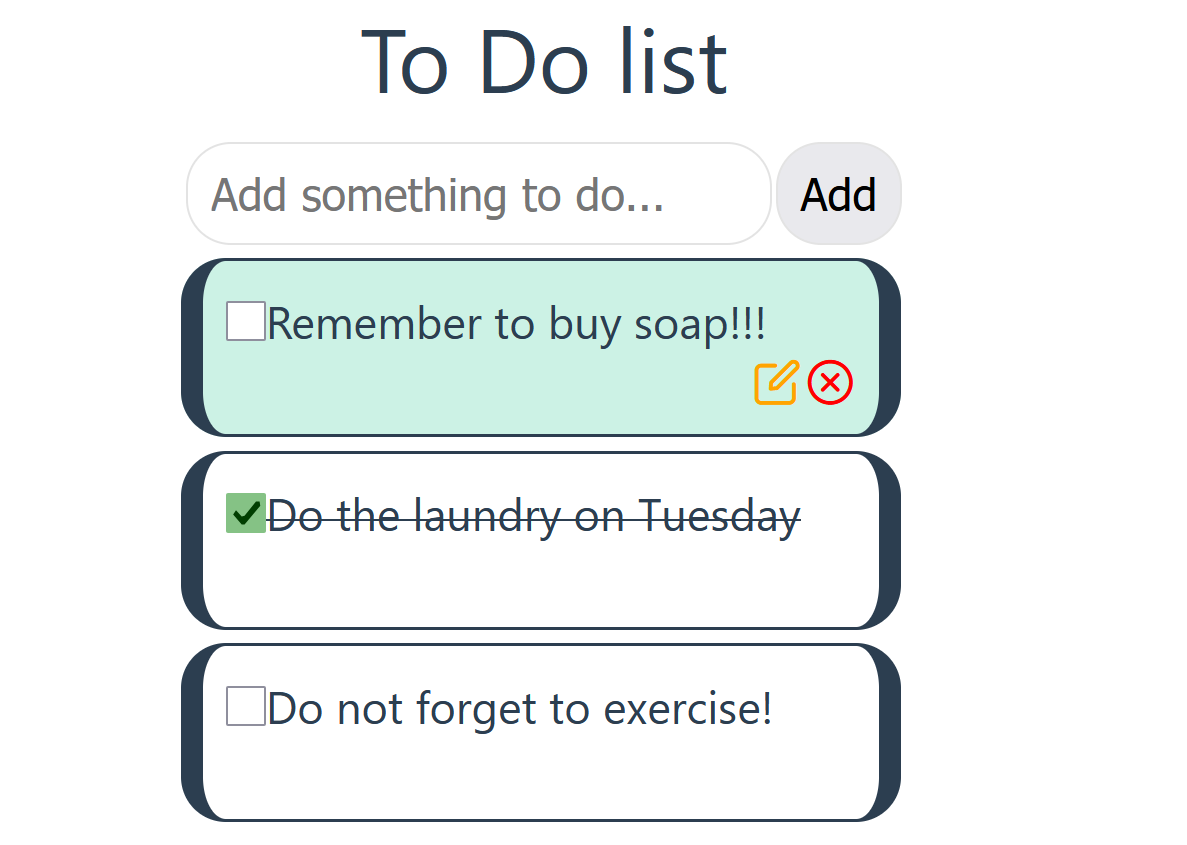
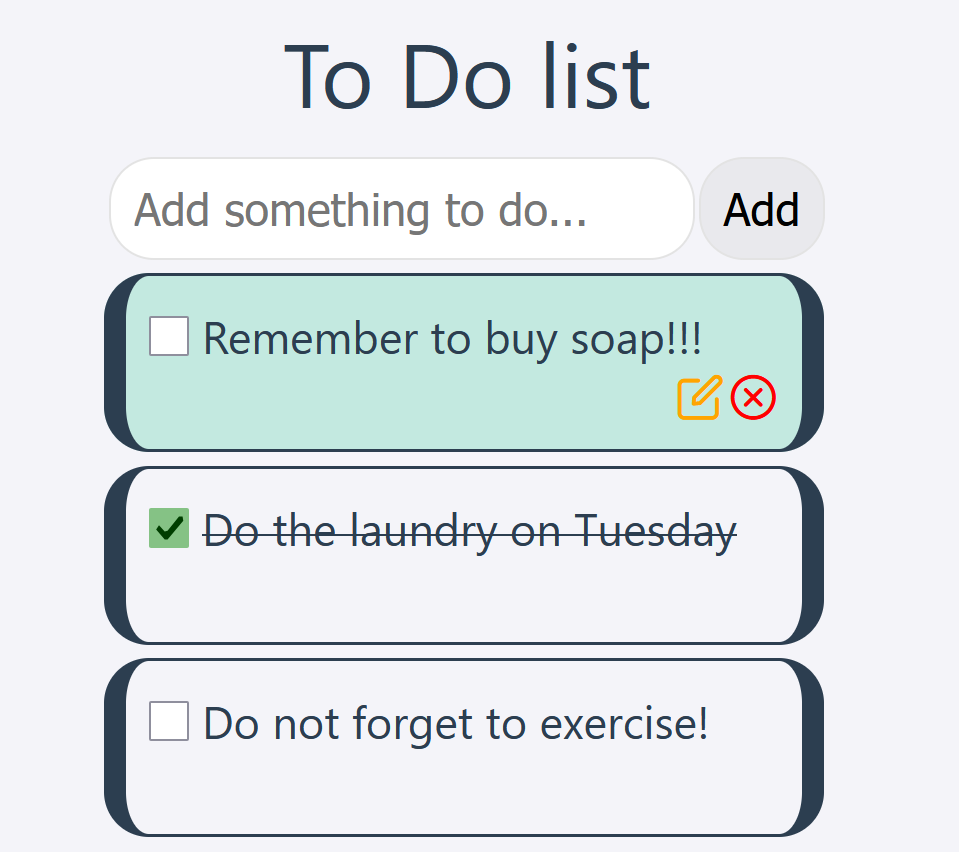
minor estetical changes

Changed region(s): [[0.0907, 0.2154, 0.877, 0.9846], [0.3024, 0.0308, 0.6955, 0.1538], [0.6653, 0.2154, 0.8467, 0.2769]]

diff --git a/src/assets/main.css b/src/assets/main.css
@@ -26,6 +26,10 @@ a,
     display: flex;
     flex-direction: column;
     place-items: center;
+  
+    background-color: #f4f4f9;
+      
+    
     
   }
 
@@ -91,6 +95,7 @@ a,
   width:3em;
   height:3em;
   accent-color:rgba(0, 128, 0, 0.477);
+  margin-right: 1em;
 }
 
 .btn:focus,
